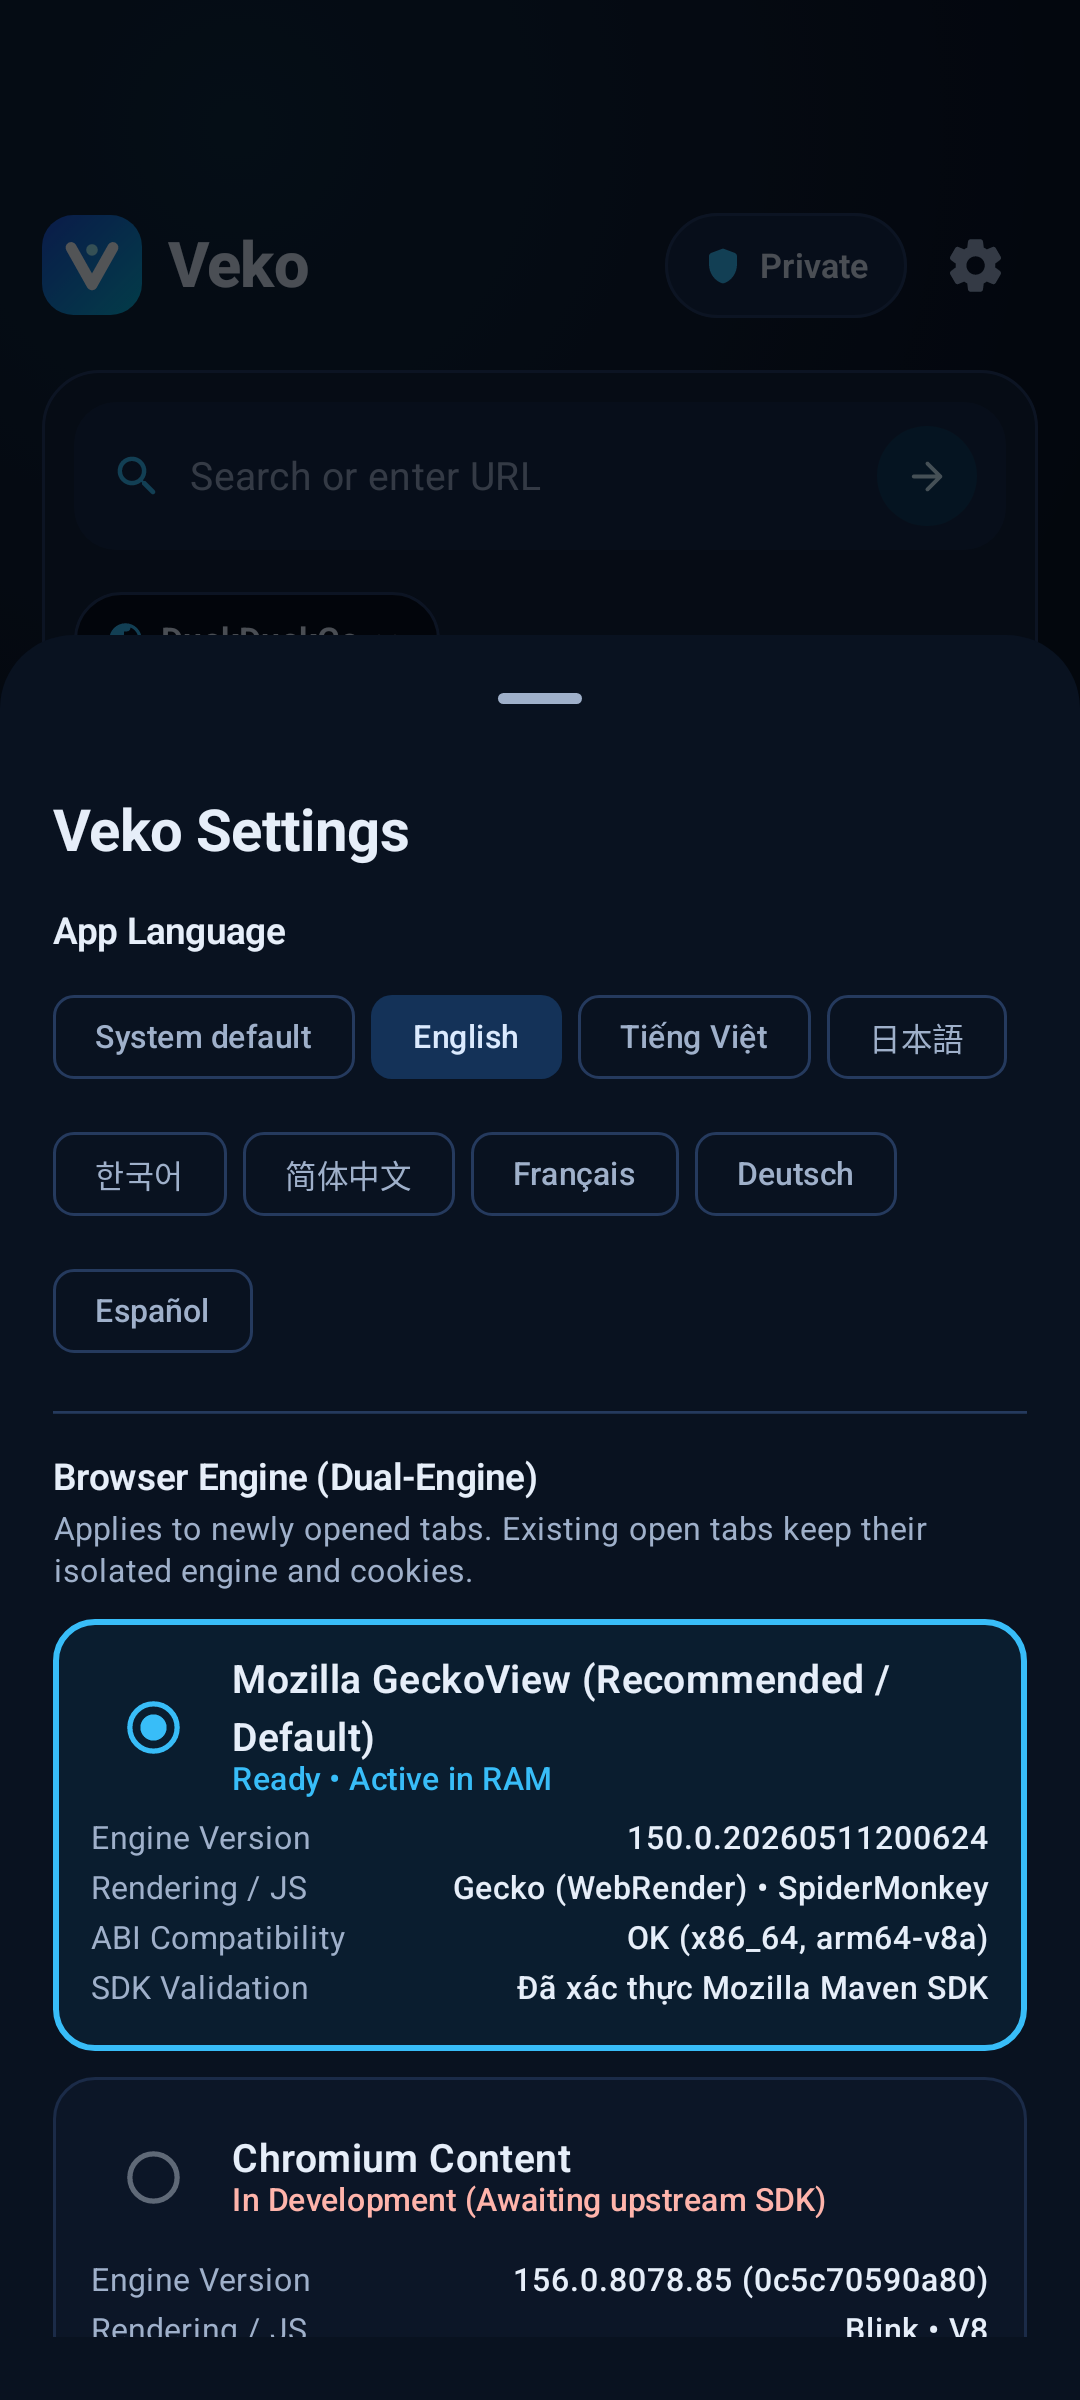
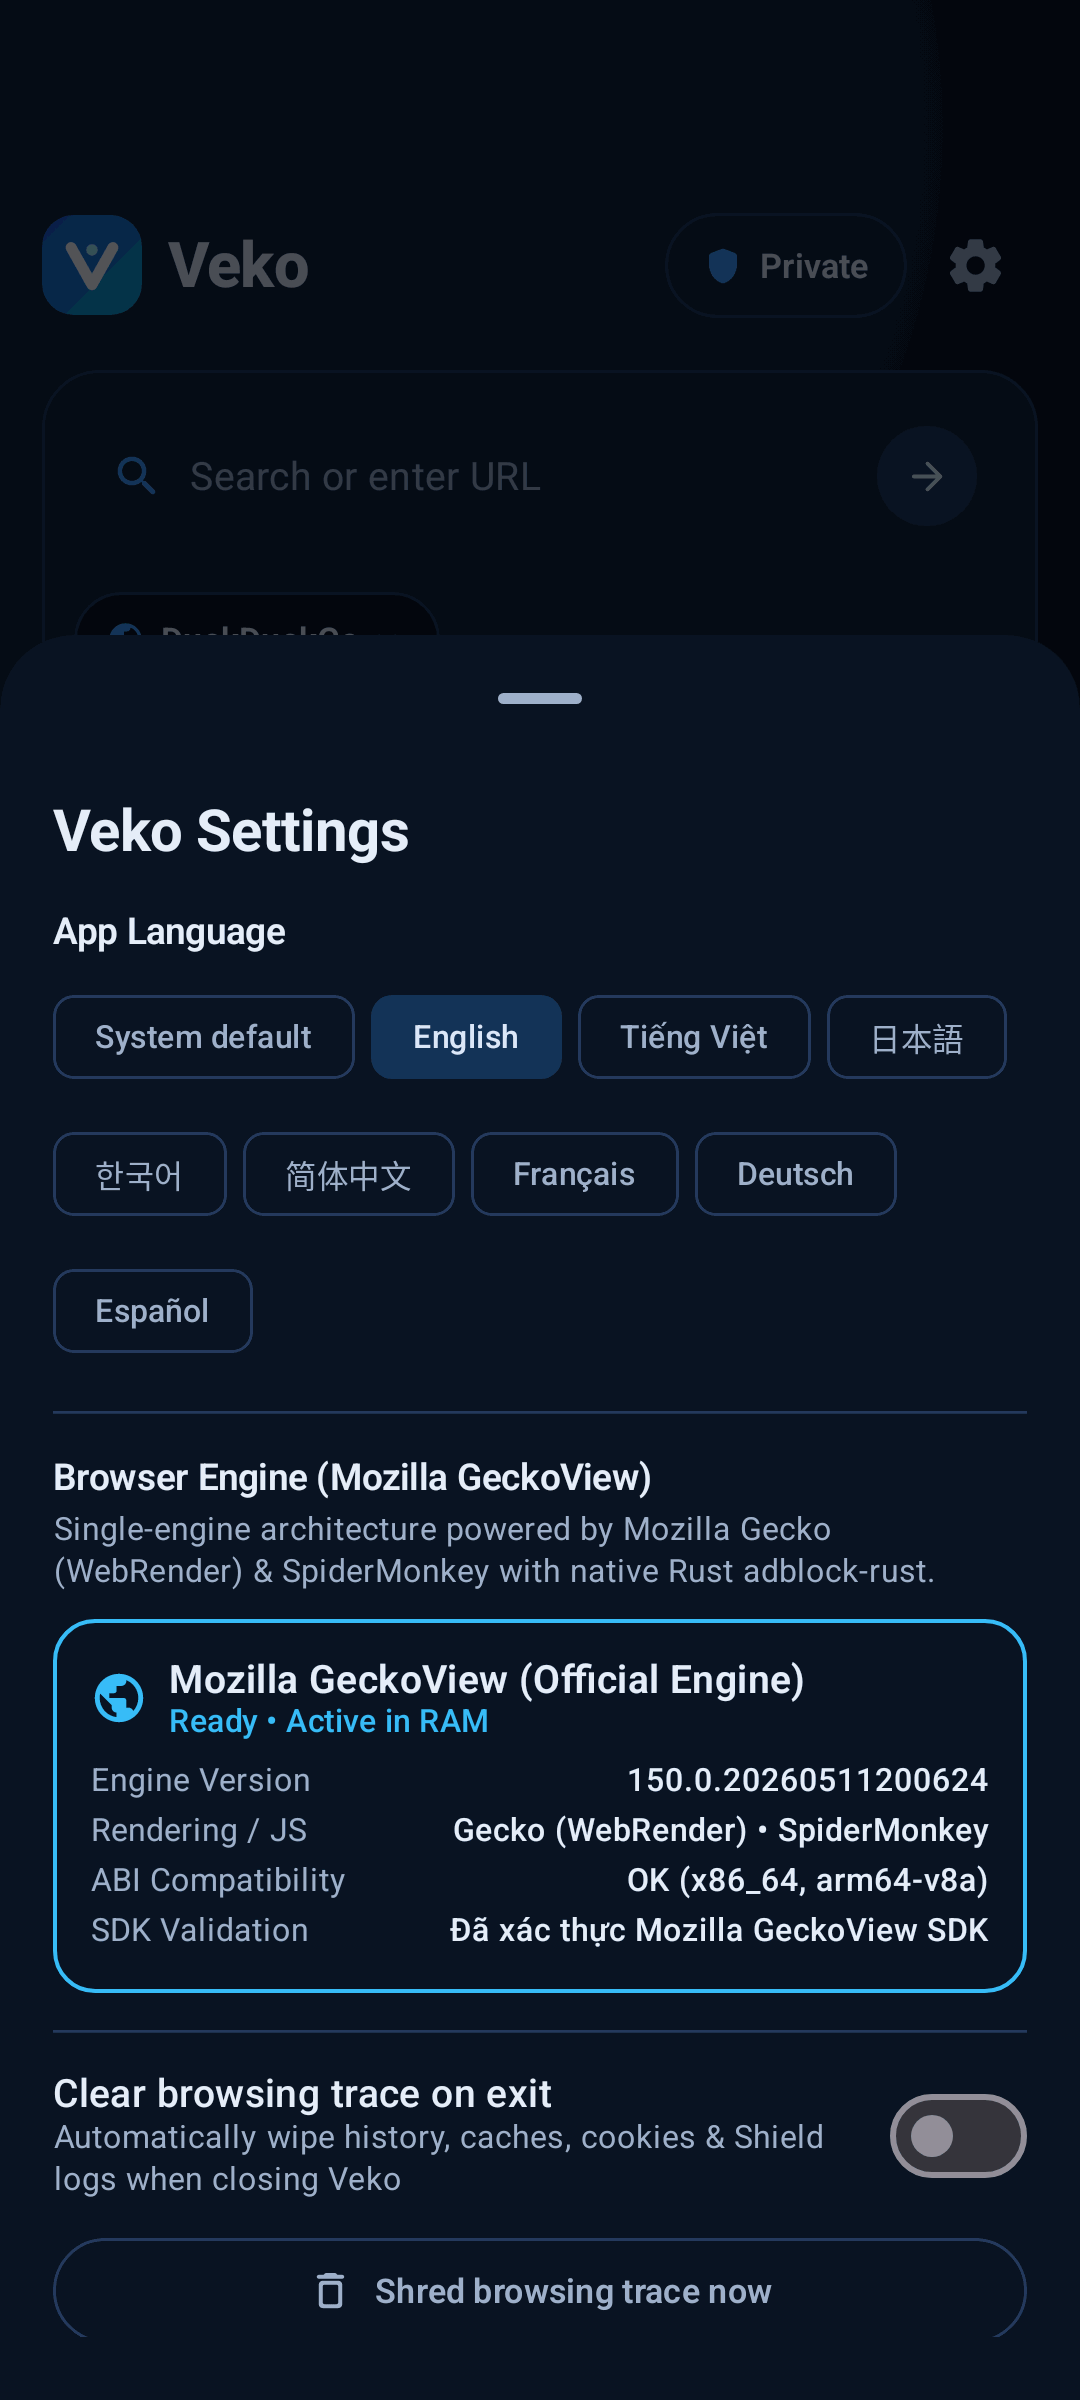
docs(screenshots,ci): update GeckoView-only Android 14 PNG screenshots and clean CI workflow

Changed region(s): [[0.0306, 0.5938, 0.9472, 0.9688]]

diff --git a/app/src/test/java/io/veko/browser/security/ProjectSecurityConfigTest.kt b/app/src/test/java/io/veko/browser/security/ProjectSecurityConfigTest.kt
@@ -167,12 +167,12 @@ class ProjectSecurityConfigTest {
             gradleText.contains("includeInApk = false") && gradleText.contains("includeInBundle = false"),
         )
 
-        // Xác minh versionCode của 0.3.0-dual-engine đã được tăng lớn hơn tag v0.2.0 (versionCode = 1)
+        // Xác minh versionCode hiện tại đã được tăng lớn hơn tag v0.2.0 (versionCode = 1)
         val versionCodeMatch = Regex("""versionCode\s*=\s*(\d+)""").find(gradleText)
         assertNotNull("Expected explicit versionCode in app/build.gradle.kts", versionCodeMatch)
         val currentVersionCode = versionCodeMatch!!.groupValues[1].toInt()
         assertTrue(
-            "versionCode ($currentVersionCode) for 0.3.0-dual-engine must be > 1 (tag v0.2.0)",
+            "versionCode ($currentVersionCode) must be > 1 (tag v0.2.0)",
             currentVersionCode >= 2,
         )
 
